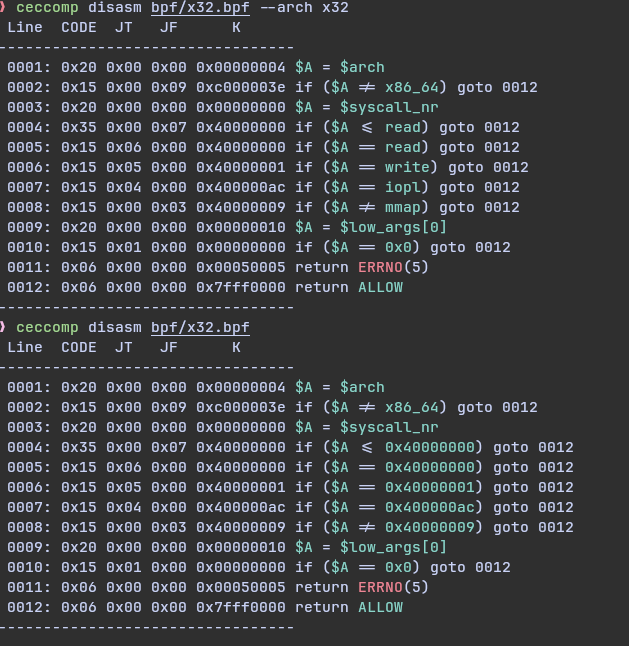
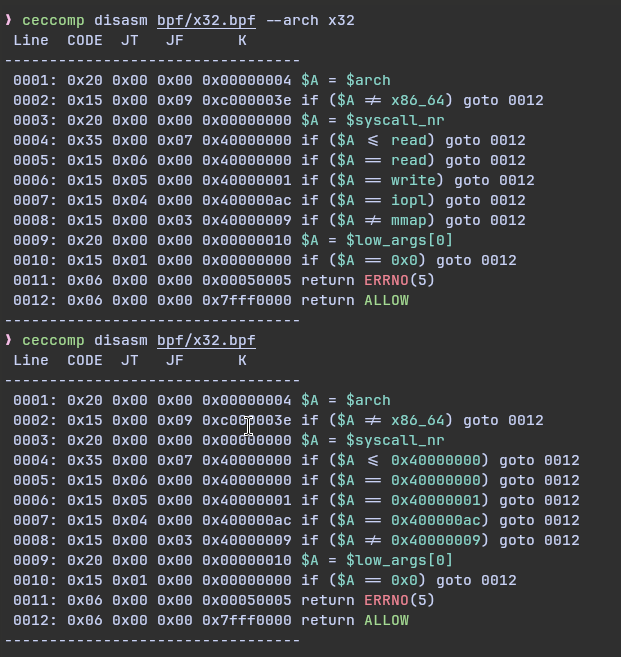
update ceccom-doc

Changed region(s): [[0.0, 0.0, 0.9485, 0.9907]]

diff --git a/source/_posts/ceccomp-doc.md b/source/_posts/ceccomp-doc.md
@@ -75,9 +75,7 @@ Before that, take the disasm result as example
 Example:  
 > `--fmt` examples
 
-![asm_raw](./ceccomp-doc/asm_raw.png)  
-![asm_hexline](./ceccomp-doc/asm_hexline.png)  
-![asm_hexfmt](./ceccomp-doc/asm_hexfmt.png)
+![asm](./ceccomp-doc/asm.png)
 
 ## Disassemble
 
